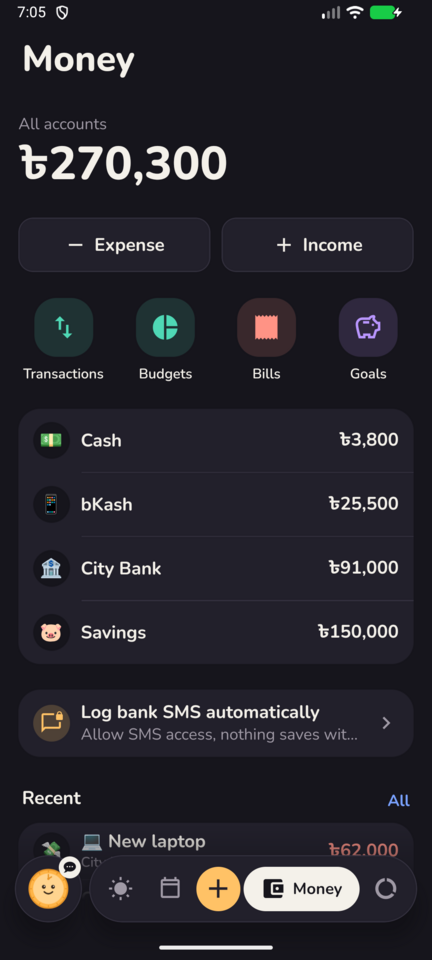
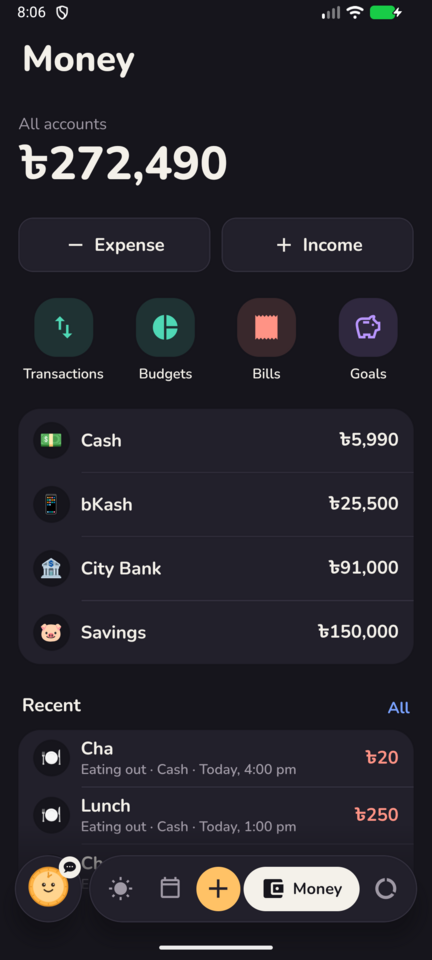
docs: README shows the new widget, sounds, and Money without SMS

diff --git a/README.md b/README.md
@@ -61,11 +61,21 @@ your top three and what's next. Quick-add reads plain text such as "biryani with
 |:-:|:-:|:-:|:-:|
 | <img src="docs/screenshots/review.png" width="200" alt="Review home" /> | <img src="docs/screenshots/weekly.png" width="200" alt="Weekly review" /> | <img src="docs/screenshots/reports.png" width="200" alt="Reports" /> | <img src="docs/screenshots/chat.png" width="200" alt="Chat with Tiki" /> |
 
-### Sign-in, settings, widget and dark mode
+### Home-screen widget
 
-| Sign in | Settings | Home-screen widget | Dark mode |
-|:-:|:-:|:-:|:-:|
-| <img src="docs/screenshots/login.png" width="200" alt="Sign in with Google" /> | <img src="docs/screenshots/settings.png" width="200" alt="Settings" /> | <img src="docs/screenshots/widget.png" width="200" alt="Safe-to-spend widget" /> | <img src="docs/screenshots/money-dark.png" width="200" alt="Money in dark mode" /> |
+Today at a glance without opening the app: safe to spend with a bar for how much of the
+day's share is gone, the next task, top-three and habit progress, one-tap logging for
+things you buy often, and buttons to add a task, log an expense or start focusing.
+
+| Light | Dark |
+|:-:|:-:|
+| <img src="docs/screenshots/widget.png" width="380" alt="Home-screen widget, light" /> | <img src="docs/screenshots/widget-dark.png" width="380" alt="Home-screen widget, dark" /> |
+
+### Sign-in, settings and dark mode
+
+| Sign in | Settings | Dark mode |
+|:-:|:-:|:-:|
+| <img src="docs/screenshots/login.png" width="200" alt="Sign in with Google" /> | <img src="docs/screenshots/settings.png" width="200" alt="Settings" /> | <img src="docs/screenshots/money-dark.png" width="200" alt="Money in dark mode" /> |
 
 ## Features
 
@@ -82,7 +92,7 @@ your top three and what's next. Quick-add reads plain text such as "biryani with
   "+45000 salary", "2h thesis", "call bank tomorrow 5pm"). AI fills in when the text is
   unclear.
 - Receipt photos, scanned by AI.
-- App shortcuts on the launcher icon, and a home-screen widget with safe to spend and
+- App shortcuts on the launcher icon, and a home-screen widget with today at a glance and
   one-tap logging.
 
 **Plan and time**
@@ -104,6 +114,10 @@ your top three and what's next. Quick-add reads plain text such as "biryani with
 - Daily shutdown, weekly and monthly reviews, reports, a dashboard per area of life, a
   payday plan and a subscription spotter.
 - Sparks, levels and unlockable rewards (Tiki outfits) for finishing things.
+- Soft sounds and vibration when you finish something: a chime for a task or habit, a
+  bell when focus ends, and confetti with a celebration for all three top tasks, a
+  finished routine, a reached goal or a new level. They mix with your music, stay quiet
+  on silent, and each can be switched off in Settings.
 
 **Tiki, the assistant** (needs an OpenAI key on the server)
 - Chat or talk, in Bangla or English, to add, change, delete or ask about anything, with
